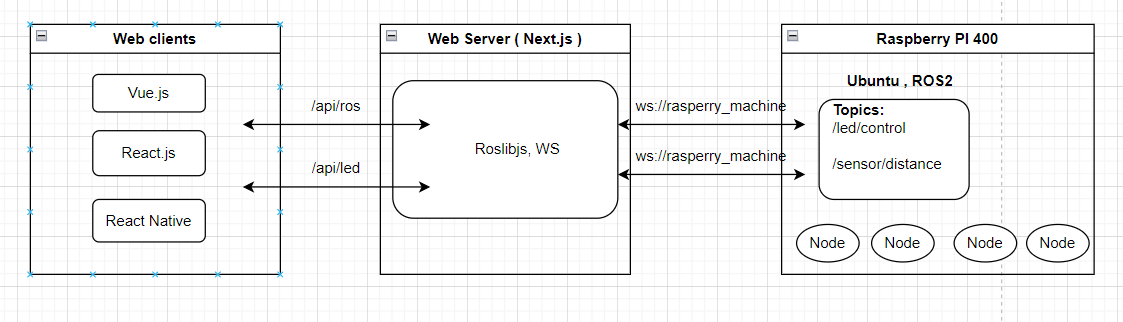
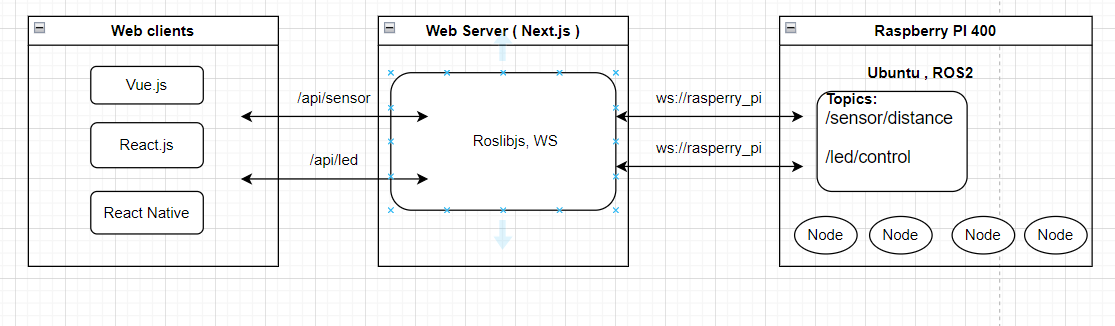
make host and service name make sense

diff --git a/app-api/src/pages/api/sensor.ts b/app-api/src/pages/api/sensor.ts
@@ -23,14 +23,14 @@ const runMiddleware = (req: NextApiRequest, res: NextApiResponse, fn: (req: Next
 
 // Create and cache ROSLIB.Ros instance
 const ros = new ROSLIB.Ros({
-  url: "ws://" + process.env.HOST_URL, // replace with your ROS bridge server
+  url: "ws://" + process.env.ROS_WS_HOST_URL, // replace with your ROS bridge server
   /* 
     To expose your ROS WebSocket server running on port 9090 to the internet
     1. Download and install ngrok
     2. Run ngrok > ngrok http 9090
     3. copy your_generated_subdomain.ngrok.io to the websocket server url. please use wss for secure web socket connection
   */
-  //  url: "wss://" + process.env.NGROK_URL, // replace with your ROS bridge server
+  //  url: "wss://" + process.env.ROS_WS_NGROK_HOST_URL, // replace with your ROS bridge server
 });
 
 ros.on('error', function(error:any) {

diff --git a/app-vue/src/components/RealTimeChart.vue b/app-vue/src/components/RealTimeChart.vue
@@ -51,7 +51,7 @@ export default {
     let eventSource; // Declare the eventSource variable
 
     onMounted(() => {
-      eventSource = new EventSource(process.env.VUE_APP_HOST_URL+'/api/ros');
+      eventSource = new EventSource(process.env.VUE_APP_API_HOST_URL+'/api/sensor');
 
       eventSource.onmessage = event => {
         const receivedData = JSON.parse(event.data);
@@ -74,7 +74,7 @@ export default {
             ]
           }
 
-        console.log("chartData", chartData)
+        // console.log("chartData", chartData)
       };
     });
 
@@ -93,7 +93,7 @@ export default {
         scales: {
           y: {
             min: 0,
-            max: 0.2
+            max: 0.3
           }
         },
         layout: {

diff --git a/app-api/src/pages/ros.js b/app-api/src/pages/ros.js
@@ -1,12 +1,14 @@
 import { useEffect, useState } from "react";
 import ROSLIB from "roslib";
+import { config } from "dotenv";
 
+config();
 const RosPage = () => {
   const [message, setMessage] = useState(null);
 
   useEffect(() => {
     const ros = new ROSLIB.Ros({
-      url: "ws://192.168.1.102:9090", // replace with your ROS bridge server
+      url: "ws://" + process.env.ROS_WS_HOST_URL, // replace with your ROS bridge server
     });
 
     const topic = new ROSLIB.Topic({

diff --git a/app-vue/src/components/RosData.vue b/app-vue/src/components/RosData.vue
@@ -14,7 +14,7 @@
       let eventSource: EventSource;
   
       onMounted(() => {
-        eventSource = new EventSource(process.env.VUE_APP_HOST_URL + '/api/ros'); // replace with your Next.js API URL
+        eventSource = new EventSource(process.env.VUE_APP_API_HOST_URL + '/api/sensor'); // replace with your Next.js API URL
   
         eventSource.onmessage = (event) => {
           const data = JSON.parse(event.data);

diff --git a/app-vue/src/components/LedControl.vue b/app-vue/src/components/LedControl.vue
@@ -20,7 +20,7 @@ export default {
   methods: {
     async updateLedState() {
       try {
-        const response = await axios.post(process.env.VUE_APP_HOST_URL + '/api/led', { state: this.ledState });
+        const response = await axios.post(process.env.VUE_APP_API_HOST_URL + '/api/led', { state: this.ledState });
         console.log(response.data);
       } catch (error) {
         console.error(error);

diff --git a/app-api/src/pages/api/led.ts b/app-api/src/pages/api/led.ts
@@ -31,7 +31,7 @@ export default async (req: NextApiRequest, res: NextApiResponse) => {
   // Only handle post requests
   if (req.method === 'POST') {
     const ros = new ROSLIB.Ros({
-      url: "ws://"+ process.env.HOST_URL, // replace with your ROS bridge server
+      url: "ws://"+ process.env.ROS_WS_HOST_URL, // replace with your ROS bridge server
     });
 
     const topic = new ROSLIB.Topic({

diff --git a/app-expo/components/RealTimeChart.tsx b/app-expo/components/RealTimeChart.tsx
@@ -46,7 +46,7 @@ const RealTimeChart = () => {
   useEffect(() => {
     console.log("Connect to EventSource");
     const es = new EventSource(
-      "https://70db-2a00-23c7-f832-3b01-f093-32dc-fad-e535.eu.ngrok.io/api/ros"
+      "https://70db-2a00-23c7-f832-3b01-f093-32dc-fad-e535.eu.ngrok.io/api/sensor"
     );
 
     const listener: EventSourceListener = (event) => {

diff --git a/app-react/src/components/LedControl.tsx b/app-react/src/components/LedControl.tsx
@@ -10,7 +10,7 @@ const LedControl: React.FC = () => {
     setLedState(newState);
     try {
       const response = await axios.post(
-        process.env.REACT_APP_HOST_URL + "/api/led",
+        process.env.REACT_APP_API_HOST_URL + "/api/led",
         {
           state: newState,
         }

diff --git a/app-react/src/components/RealTimeChart.tsx b/app-react/src/components/RealTimeChart.tsx
@@ -18,7 +18,7 @@ const RealTimeChart: React.FC = () => {
 
   useEffect(() => {
     const eventSource = new EventSource(
-      process.env.REACT_APP_HOST_URL + "/api/ros"
+      process.env.REACT_APP_API_HOST_URL + "/api/sensor"
     );
 
     eventSource.onmessage = (event) => {

diff --git a/app-react/src/components/RosData.tsx b/app-react/src/components/RosData.tsx
@@ -5,7 +5,7 @@ const RosData: React.FC = () => {
 
   useEffect(() => {
     const eventSource = new EventSource(
-      process.env.REACT_APP_HOST_URL + "/api/ros"
+      process.env.REACT_APP_API_HOST_URL + "/api/sensor"
     );
 
     eventSource.onmessage = (event) => {

diff --git a/README.md b/README.md
@@ -10,7 +10,7 @@ This integration consists of three key elements:
 
 1. Hardware: The hardware setup comprises a Raspberry Pi 4 or Raspberry Pi 400 operating on ROS2. This hardware is connected to a distance sensor <a href="https://www.adafruit.com/product/3317">VL53L0X</a> and a LED. ROS nodes will be established to create the /sensor/distance and /led/control topics. These topics are responsible for capturing the data from the distance sensor and controlling the LED's state, respectively.
 
-2. API Endpoint Server: Next.js, a popular JavaScript framework, is employed to establish the API endpoint server. This server sets up HTTP API routes (/api/ros and /api/led), directly linking these routes to the ROS topics (/sensor/distance and /led/control), thereby serving as a conduit for the hardware to interact with the web clients.
+2. API Endpoint Server: Next.js, a popular JavaScript framework, is employed to establish the API endpoint server. This server sets up HTTP API routes (/api/sensor and /api/led), directly linking these routes to the ROS topics (/sensor/distance and /led/control), thereby serving as a conduit for the hardware to interact with the web clients.
 
 3. Web Clients: The client-side of the demonstration involves applications developed using Vue.js, React.js, and React Native. These clients are designed to connect to the API endpoint, retrieve real-time data from the distance sensor, plot this data in an interactive graph, and control the state of the LED (on/off).
 
